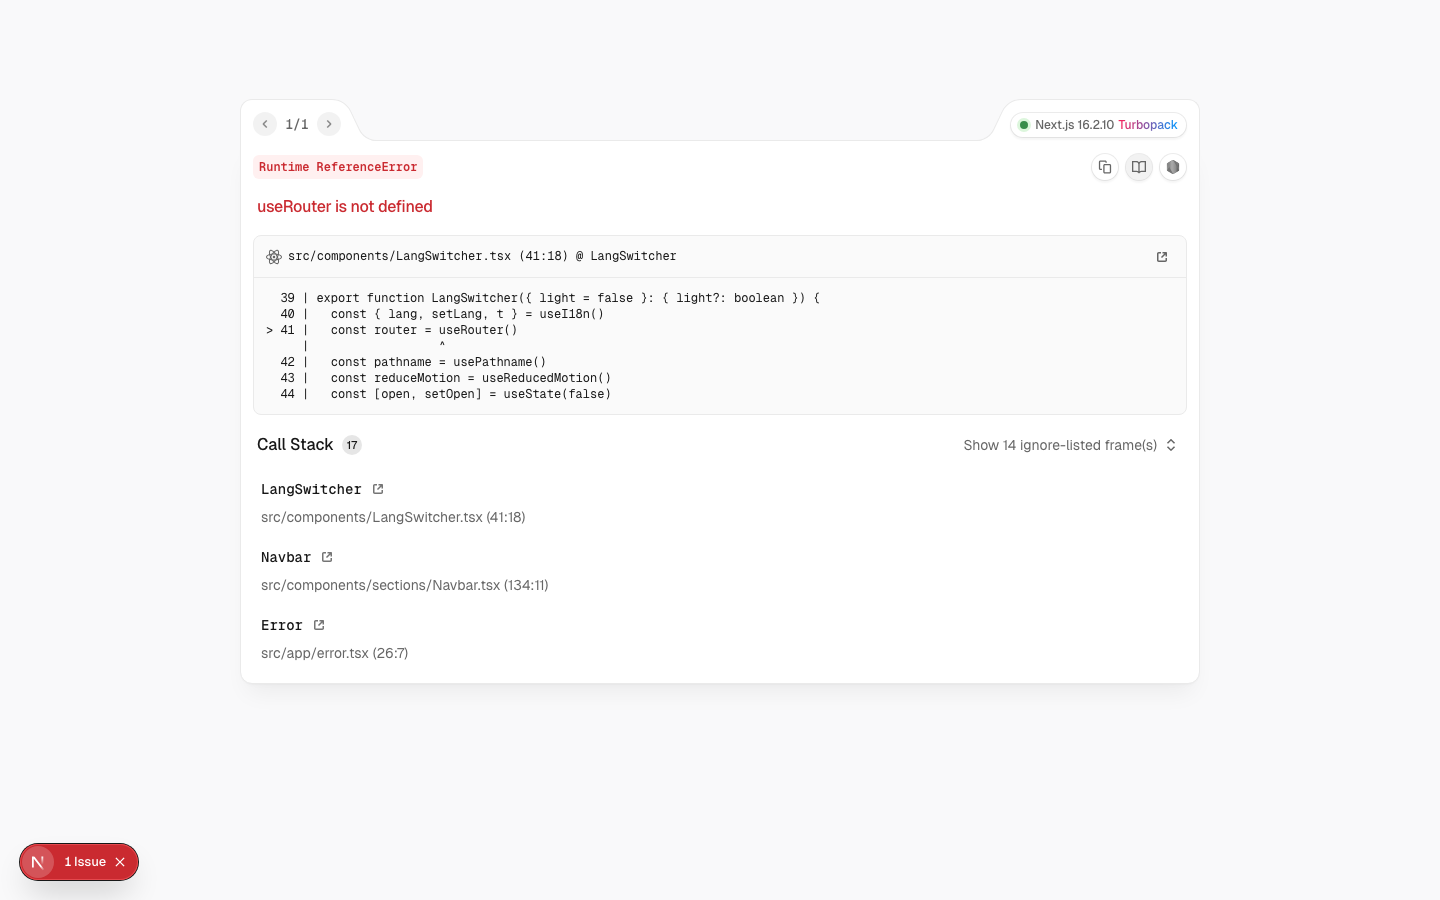
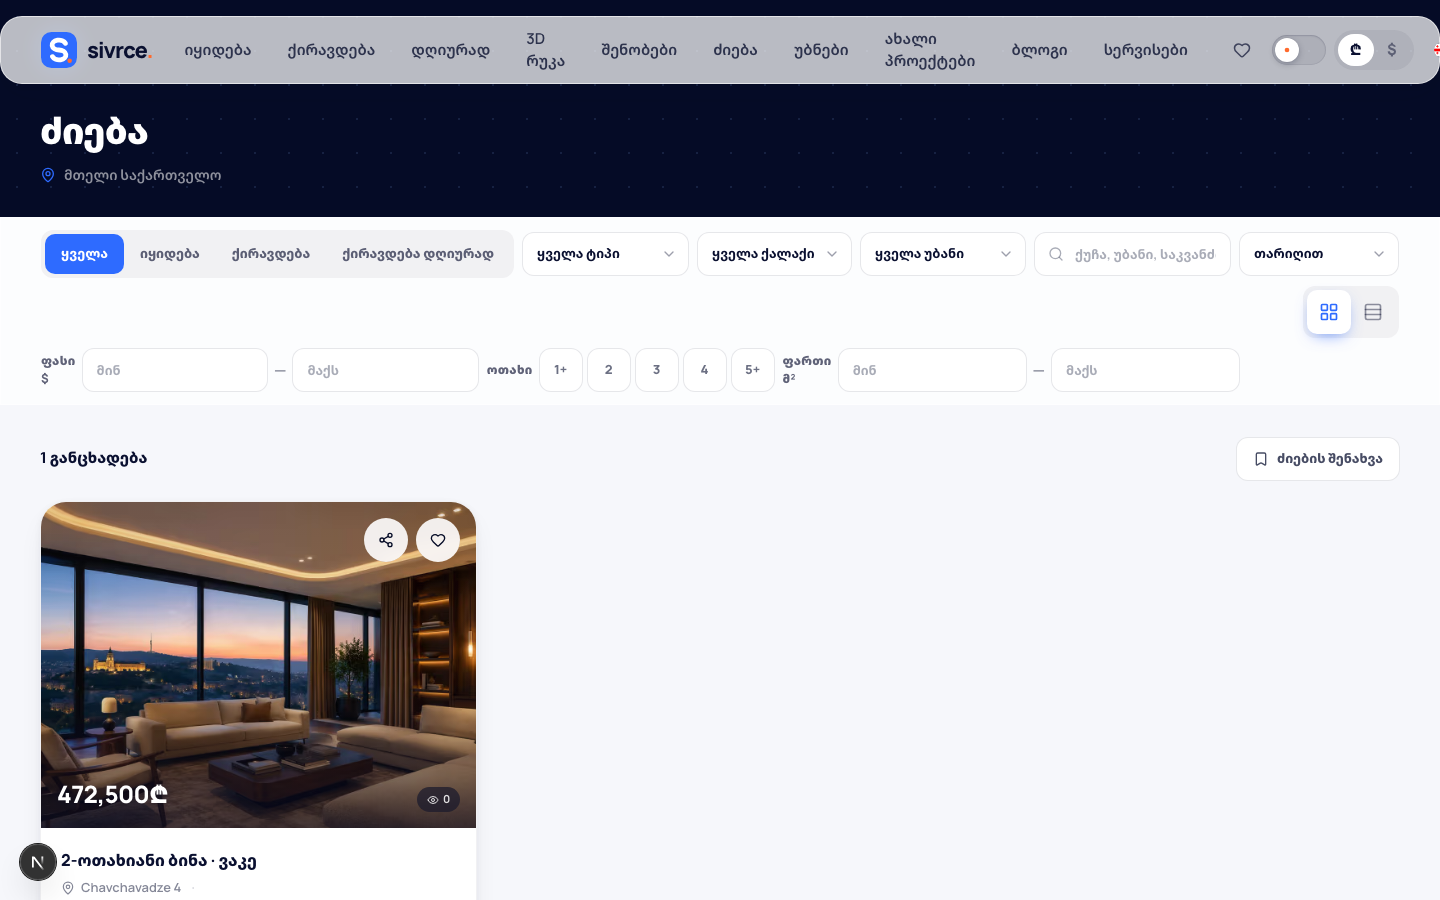
feat: 100% listing-building geotagging + 4 new developments on 3D map
- Every listing (40/40) tagged with buildingSlug + coordinates; 90% with building number
- New developments on 3D map: m2 Hippodrome, Archi Central Park, ORBI City, Alliance Palace
- check:map hardened into 100% coverage gate (Georgia bounds, no dropped listings, ghost parity)
- Includes parallel-session i18n/admin content work (build + lint + tsc green)

diff --git a/app/src/app/admin/content/forum/page.tsx b/app/src/app/admin/content/forum/page.tsx
@@ -1,0 +1,151 @@
+import { MessagesSquare } from "lucide-react"
+
+import { restoreThread, softDeleteThread } from "@/app/admin/content/forum/actions"
+import { ContentTabs } from "@/components/admin/content/ContentTabs"
+import { ConfirmButton } from "@/components/admin/ui/ConfirmButton"
+import { DataTable, THeadRow, TRow, td, th } from "@/components/admin/ui/DataTable"
+import { EmptyState } from "@/components/admin/ui/EmptyState"
+import { FilterSelect } from "@/components/admin/ui/FilterSelect"
+import { PageHeader } from "@/components/admin/ui/PageHeader"
+import { Pagination } from "@/components/admin/ui/Pagination"
+import { SearchForm } from "@/components/admin/ui/SearchForm"
+import { StatusPill } from "@/components/admin/ui/StatusPill"
+import type { Prisma } from "@/generated/prisma/client"
+import { fmtDate, fmtNum, timeAgo } from "@/lib/admin/format"
+import { ADMIN_PAGE_SIZE, param, parsePage, type SearchParams } from "@/lib/admin/query"
+import { db } from "@/lib/db"
+
+export const metadata = { title: "Forum" }
+
+const STATE_OPTIONS = [
+  { value: "active", label: "Active" },
+  { value: "deleted", label: "Deleted" },
+  { value: "all", label: "All" },
+] as const
+
+export default async function ForumListPage({
+  searchParams,
+}: {
+  searchParams: Promise<SearchParams>
+}) {
+  const sp = await searchParams
+  const page = parsePage(sp.page)
+  const q = param(sp.q)
+  const state = param(sp.state) || "active"
+
+  const where: Prisma.ForumThreadWhereInput = {}
+  if (q) where.title = { contains: q, mode: "insensitive" }
+  if (state === "active") where.deletedAt = null
+  if (state === "deleted") where.deletedAt = { not: null }
+
+  const [total, rows] = await Promise.all([
+    db.forumThread.count({ where }),
+    db.forumThread.findMany({
+      where,
+      orderBy: { lastActivityAt: "desc" },
+      skip: (page - 1) * ADMIN_PAGE_SIZE,
+      take: ADMIN_PAGE_SIZE,
+    }),
+  ])
+
+  return (
+    <>
+      <PageHeader
+        title="Forum"
+        description={`${fmtNum(total)} threads · ${state === "all" ? "including deleted" : state}`}
+      />
+      <ContentTabs active="/admin/content/forum" />
+
+      <div className="mb-4 flex flex-wrap items-center gap-3">
+        <SearchForm
+          action="/admin/content/forum"
+          params={sp}
+          placeholder="Search thread title…"
+        />
+        <FilterSelect name="state" label="State" options={STATE_OPTIONS} value={state} />
+      </div>
+
+      {rows.length === 0 ? (
+        <EmptyState
+          icon={MessagesSquare}
+          title="No threads found"
+          hint="Try widening the search or switching the state filter."
+        />
+      ) : (
+        <DataTable>
+          <THeadRow>
+            <th className={th}>Title</th>
+            <th className={`${th} text-right`}>Replies</th>
+            <th className={`${th} text-right`}>Verified responses</th>
+            <th className={th}>Last activity</th>
+            <th className={th}>Created</th>
+            <th className={th}>State</th>
+            <th className={th}>Actions</th>
+          </THeadRow>
+          <tbody>
+            {rows.map((t) => (
+              <TRow key={t.id}>
+                <td className={td}>
+                  <div className="max-w-[340px]">
+                    <span className="block truncate font-bold text-sv-ink">{t.title}</span>
+                    <span className="mt-0.5 block text-[12px] text-sv-ink/45">{t.district}</span>
+                    {t.tags.length > 0 ? (
+                      <span className="mt-1.5 flex flex-wrap gap-1">
+                        {t.tags.slice(0, 3).map((tag) => (
+                          <span
+                            key={tag}
+                            className="rounded-full bg-sv-ink/6 px-2 py-0.5 text-[11px] font-bold text-sv-ink/55"
+                          >
+                            {tag}
+                          </span>
+                        ))}
+                      </span>
+                    ) : null}
+                  </div>
+                </td>
+                <td className={`${td} text-right tabular-nums`}>{fmtNum(t.replies)}</td>
+                <td className={`${td} text-right tabular-nums`}>
+                  {fmtNum(t.verifiedResponses)}
+                </td>
+                <td className={`${td} whitespace-nowrap text-sv-ink/55`}>
+                  {timeAgo(t.lastActivityAt)}
+                </td>
+                <td className={`${td} whitespace-nowrap text-sv-ink/55`}>
+                  {fmtDate(t.createdAt)}
+                </td>
+                <td className={td}>
+                  <StatusPill status={t.deletedAt ? "archived" : "active"} />
+                </td>
+                <td className={td}>
+                  {t.deletedAt ? (
+                    <ConfirmButton
+                      action={restoreThread}
+                      fields={{ id: t.id }}
+                      label="Restore"
+                    />
+                  ) : (
+                    <ConfirmButton
+                      action={softDeleteThread}
+                      fields={{ id: t.id }}
+                      label="Delete"
+                      tone="danger"
+                      confirm={`Delete the thread "${t.title}"? It will be hidden from the forum.`}
+                    />
+                  )}
+                </td>
+              </TRow>
+            ))}
+          </tbody>
+        </DataTable>
+      )}
+
+      <Pagination
+        basePath="/admin/content/forum"
+        page={page}
+        pageSize={ADMIN_PAGE_SIZE}
+        total={total}
+        params={sp}
+      />
+    </>
+  )
+}

diff --git a/app/src/app/admin/content/services/actions.ts b/app/src/app/admin/content/services/actions.ts
@@ -1,0 +1,57 @@
+"use server"
+
+import { revalidatePath } from "next/cache"
+
+import { logAdminAction } from "@/lib/admin/audit"
+import { requireAdminAction } from "@/lib/admin/guard"
+import { reqString } from "@/lib/admin/validate"
+import { db } from "@/lib/db"
+
+export async function toggleProviderVerified(fd: FormData) {
+  const session = await requireAdminAction()
+  const id = reqString(fd, "id", 120)
+  const before = await db.serviceProvider.findUniqueOrThrow({
+    where: { id },
+    select: { verified: true },
+  })
+  const verified = !before.verified
+  await db.serviceProvider.update({ where: { id }, data: { verified } })
+  await logAdminAction(session, "content.provider.toggle_verified", "service_provider", id, {
+    before: { verified: before.verified },
+    after: { verified },
+  })
+  revalidatePath("/admin/content/services")
+}
+
+export async function toggleProviderActive(fd: FormData) {
+  const session = await requireAdminAction()
+  const id = reqString(fd, "id", 120)
+  const before = await db.serviceProvider.findUniqueOrThrow({
+    where: { id },
+    select: { isActive: true },
+  })
+  const isActive = !before.isActive
+  await db.serviceProvider.update({ where: { id }, data: { isActive } })
+  await logAdminAction(session, "content.provider.toggle_active", "service_provider", id, {
+    before: { isActive: before.isActive },
+    after: { isActive },
+  })
+  revalidatePath("/admin/content/services")
+}
+
+export async function softDeleteProvider(fd: FormData) {
+  const session = await requireAdminAction()
+  const id = reqString(fd, "id", 120)
+  const before = await db.serviceProvider.findUniqueOrThrow({
+    where: { id },
+    select: { deletedAt: true },
+  })
+  if (before.deletedAt) throw new Error("Provider is already deleted")
+  const deletedAt = new Date()
+  await db.serviceProvider.update({ where: { id }, data: { deletedAt } })
+  await logAdminAction(session, "content.provider.soft_delete", "service_provider", id, {
+    before: { deletedAt: null },
+    after: { deletedAt },
+  })
+  revalidatePath("/admin/content/services")
+}

diff --git a/app/src/app/admin/content/forum/actions.ts b/app/src/app/admin/content/forum/actions.ts
@@ -1,0 +1,41 @@
+"use server"
+
+import { revalidatePath } from "next/cache"
+
+import { logAdminAction } from "@/lib/admin/audit"
+import { requireAdminAction } from "@/lib/admin/guard"
+import { reqString } from "@/lib/admin/validate"
+import { db } from "@/lib/db"
+
+export async function softDeleteThread(fd: FormData) {
+  const session = await requireAdminAction()
+  const id = reqString(fd, "id", 120)
+  const before = await db.forumThread.findUniqueOrThrow({
+    where: { id },
+    select: { deletedAt: true },
+  })
+  if (before.deletedAt) throw new Error("Thread is already deleted")
+  const deletedAt = new Date()
+  await db.forumThread.update({ where: { id }, data: { deletedAt } })
+  await logAdminAction(session, "content.forum.soft_delete", "forum_thread", id, {
+    before: { deletedAt: null },
+    after: { deletedAt },
+  })
+  revalidatePath("/admin/content/forum")
+}
+
+export async function restoreThread(fd: FormData) {
+  const session = await requireAdminAction()
+  const id = reqString(fd, "id", 120)
+  const before = await db.forumThread.findUniqueOrThrow({
+    where: { id },
+    select: { deletedAt: true },
+  })
+  if (!before.deletedAt) throw new Error("Thread is not deleted")
+  await db.forumThread.update({ where: { id }, data: { deletedAt: null } })
+  await logAdminAction(session, "content.forum.restore", "forum_thread", id, {
+    before: { deletedAt: before.deletedAt },
+    after: { deletedAt: null },
+  })
+  revalidatePath("/admin/content/forum")
+}